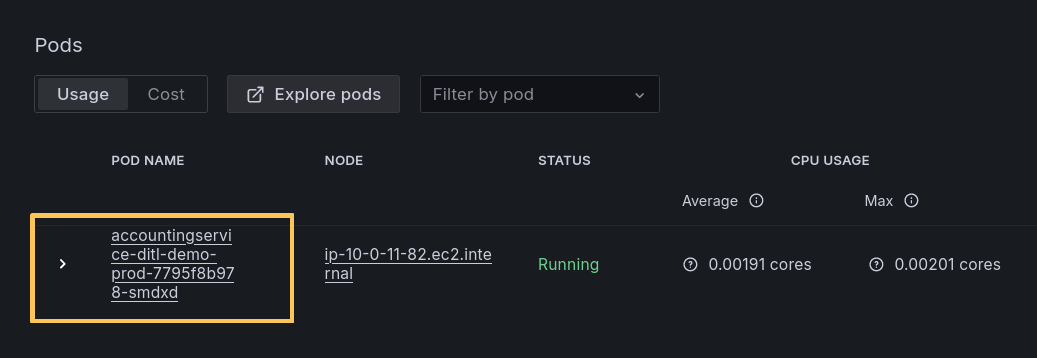
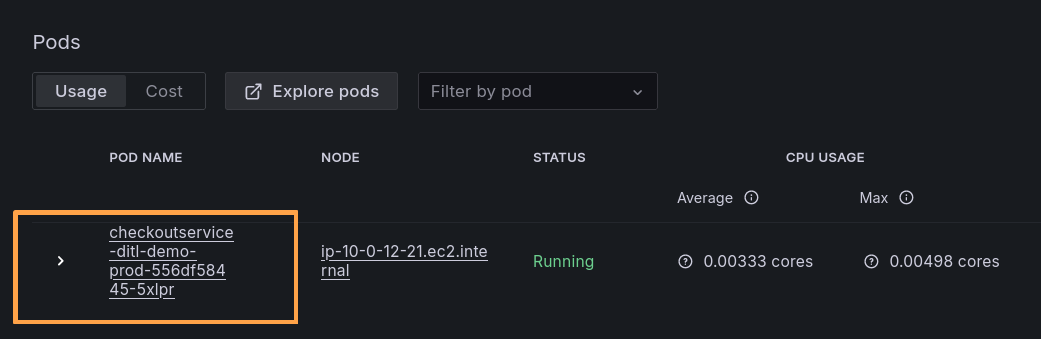
Move all to checkoutservice

diff --git a/lab_2/lab_2_instructions.md b/lab_2/lab_2_instructions.md
@@ -65,17 +65,21 @@ In the first part of this lab, we'll dive into the Kubernetes app experience, wh
 
     The Workloads view will be displayed. We can see all our workloads, across all clusters.
 
-1.  From the Workloads view, click on the workload that starts with the name `accountingservice`:
+1.  From the Workloads view, click on the workload that starts with the name `checkoutservice`:
 
-    ![](./images/k8s_workloads.png)
+    ![](./images/k8s_workloads_checkoutsvc.png)
 
-1.  From the `accountingservice` workload view, we can see aggregated metrics of this workload, from the infrastructure layer. We can see CPU, memory usage and cost.
+    The workload view will be displayed.
 
-    Scroll down to the list of Pods at the bottom of this page and click on the Pod name to drill into it:
+1.  From the `checkoutservice` workload view, we can see aggregated metrics of this workload, from the infrastructure layer. We can see CPU, memory usage and cost.
+
+    ![](./images/k8s_workload_view.png)
+
+1.  Scroll down to the list of Pods at the bottom of this page and click on the Pod name to drill into it:
 
     ![](./images/k8s_workload_pod.png)
 
-1.  In the Pod view, you can see the CPU and memory usage of this Pod. 
+1.  In the Pod view, you can see the CPU and memory usage of this Pod. We can also view Logs from the Pod.
 
     You can also view performance over time, such as usage over the last year, six months, 90 days, etc.
 
@@ -85,15 +89,15 @@ In the first part of this lab, we'll dive into the Kubernetes app experience, wh
 
     ![](https://ajeuwbhvhr.cloudimg.io/colony-recorder.s3.amazonaws.com/files/2024-04-07/2312d9ff-4065-41f1-8484-4417704814f3/user_cropped_screenshot.jpeg?tl_px=0,0&br_px=1232,633&force_format=png&width=500.0)
 
-    Observe how we can see the health of this pod over the last 2 days.
+    Notice how we can view the health of this pod over the last 2 days.
 
 [Click here](https://grafana.com/docs/grafana-cloud/monitor-infrastructure/kubernetes-monitoring/navigate-k8s-monitoring/) if you want to learn more about what is available with the Kubernetes Integration.
 
-Next we'll look at how we can observe the application layer in our Kubernetes cluster.
+Next we'll look at how we can observe application-level metrics from the services that are deployed in our Kubernetes cluster.
 
 ### 1.2: Application Observability
 
-In our demonstration EKS cluster, we have also instrumented our applications to send traces to Grafana Cloud. This completes our observability picture by allowing us to see health at the application layer, through metrics, logs and traces.
+In our demonstration EKS cluster, we have instrumented our applications to collect and send traces to Grafana Cloud. This completes our observability picture by allowing us to see health at the application layer, through metrics, logs and traces.
 
 1.  From the side menu in Grafana, click on **Application** to navigate to Application Observability.
 
